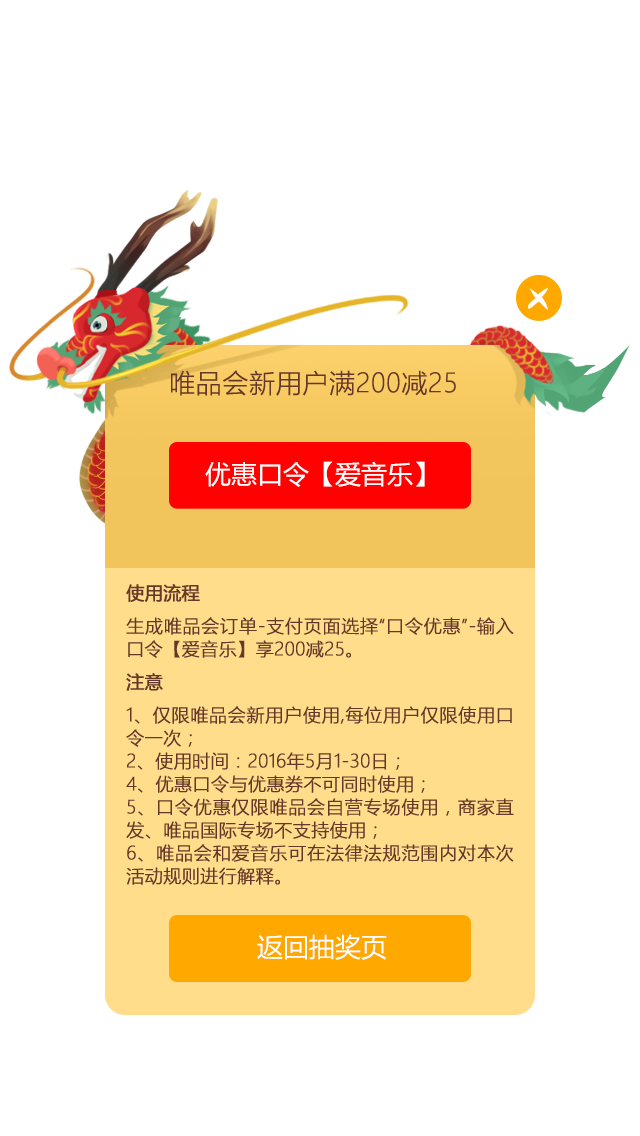
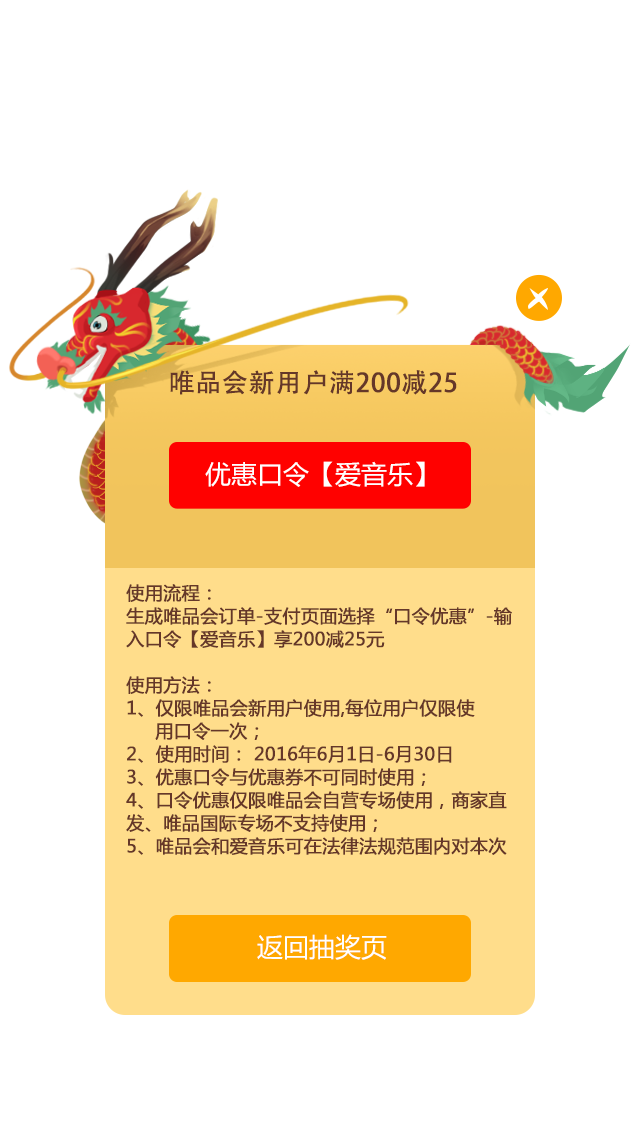
20160608修正

Changed region(s): [[0.1875, 0.5238, 0.8125, 0.8011], [0.2812, 0.3081, 0.6875, 0.3697]]

diff --git a/uber_s27e01/src/com/views/scene/initScene.ts b/uber_s27e01/src/com/views/scene/initScene.ts
@@ -17,10 +17,8 @@ module com.views.scene {
 
         constructor() {
             super();
-
             this.loading = new com.views.ui.loading.LoaderLoading("resource/resource.json?v=0","gameScene",this.onConfigComplete.bind(this));
             this.addChild(this.loading);
-
             com.utils.NetworkUtil.requestUser();
         }
 
@@ -76,7 +74,7 @@ module com.views.scene {
 
             //鼓
             this.drum = com.utils.AppUtils.loadArmature("drum/json","drum/texture","drum/png","Armature");
-            this.drum.display.x = this.display.width / 5*4;
+            this.drum.display.x = this.display.width / 5*4+50;
             this.drum.display.y = 100;
             this.drum.animation.gotoAndPlay("kai",-1,-1,0);
 
@@ -86,14 +84,13 @@ module com.views.scene {
             
 
             var alpha=0;
-            var yOff=20;
-            
+            var yOff= 300;          
             //排行榜
             this.rankingBtn=new egret.Shape();
             this.rankingBtn.width = 180;
             this.rankingBtn.height = 130;
-            this.rankingBtn.x = this.stage.width * 2 / 3 - 20;
-            this.rankingBtn.y = this.stage.height * 2 / 5+yOff;
+            this.rankingBtn.x = com.model.DataCenter.instance.configVO.appWidth * 2 / 3 - 20;
+            this.rankingBtn.y = com.model.DataCenter.instance.configVO.appHeight * 2 / 5+yOff;
             
             this.rankingBtn.graphics.beginFill(0x00FF00,alpha);
             this.rankingBtn.graphics.drawRect(0,0,this.rankingBtn.width,this.rankingBtn.height);
@@ -120,12 +117,13 @@ module com.views.scene {
             this.ruleBtn.touchEnabled = true;
             this.ruleBtn.addEventListener(egret.TouchEvent.TOUCH_TAP,this.showRuleList,this);
             
+            
             //开始游戏
             this.startBtn = new egret.Shape();
             this.startBtn.width = 280;
             this.startBtn.height = 150;
-            this.startBtn.x = this.stage.width * 1 / 3 -20;
-            this.startBtn.y = this.stage.height * 5 / 9 - 40 + yOff;
+            this.startBtn.x = com.model.DataCenter.instance.configVO.appWidth * 1 / 3 -20;
+            this.startBtn.y = com.model.DataCenter.instance.configVO.appHeight * 5 / 9 - 40 + yOff;
 
             this.startBtn.graphics.beginFill(0x00FF00,alpha);
             this.startBtn.graphics.drawRect(0,0,this.startBtn.width,this.startBtn.height);

diff --git a/uber_s27e01/src/com/views/dialog/AwardDialog.ts b/uber_s27e01/src/com/views/dialog/AwardDialog.ts
@@ -9,6 +9,7 @@ module com.views.dialog {
     	  
     	  text:egret.TextField;
     	  private riseAmt:dragonBones.Armature;
+    	  private againgame:egret.Bitmap;
     	  private rise;
     	
         constructor() {
@@ -35,13 +36,23 @@ module com.views.dialog {
             this.rise.x=320;
             this.rise.y=440;
             this.riseAmt.animation.gotoAndPlay("1dianjiqian",-1,-1,1);
+            
+            this.rise.touchEnabled = true;
+            this.rise.addEventListener(egret.TouchEvent.TOUCH_TAP,this.customTouchHandler,this);
+            this.addChild(this.rise);
+            
+            //再来一次按钮
+            this.againgame = new egret.Bitmap(RES.getRes("againgame"));
+            this.againgame.x = 0;
+            this.againgame.y = 0;
+            this.againgame.touchEnabled = true;
+            this.againgame.addEventListener(egret.TouchEvent.TOUCH_TAP,this.againgameTouchHandler,this);
+            this.addChild(this.againgame);
+            
 
             this.bg.touchEnabled = false;
 
-            this.rise.touchEnabled = true;
-            this.rise.addEventListener(egret.TouchEvent.TOUCH_TAP,this.customTouchHandler,this);
-            
-            this.addChild(this.rise);
+           
             
             dragonBones.WorldClock.clock.add(this.riseAmt);
             egret.Ticker.getInstance().register(this.dragonbones,this);
@@ -62,12 +73,15 @@ module com.views.dialog {
             if(AwardDialog.balance<=0){
                 com.utils.AppUtils.alert(this.stage,"对不起，您今天的抽奖机会用完了！");
                 return;
-            }
+                }  
 //            AwardDialog.balance--;
             
             this.riseAmt.addEventListener(dragonBones.AnimationEvent.COMPLETE,this.goToNextPage,this);
             
             this.riseAmt.animation.gotoAndPlay("2dianjihou",-1,-1,1);
+        }
+        protected againgameTouchHandler(evt: egret.TouchEvent) {
+            MainView.instance.changeScene(com.constants.SceneConstants.INIT);
         }
         
         private goToNextPage(): void {

diff --git a/uber_s27e01/src/com/views/dialog/DiamondsDailog.ts b/uber_s27e01/src/com/views/dialog/DiamondsDailog.ts
@@ -79,10 +79,10 @@ module com.views.dialog {
             //灰色验证码按钮
             this.oderbtn2 = new egret.Bitmap(RES.getRes("oderbtn2"));
             this.oderbtn2.x = 0;
-            this.oderbtn2.y = -20;
+            this.oderbtn2.y = -40;
             this.odertext = new egret.TextField();
             this.odertext.x = 345;
-            this.odertext.y = 615;
+            this.odertext.y = 595;
             this.odertext.size = 20;
             
             //勾选框
@@ -104,6 +104,8 @@ module com.views.dialog {
                 this.jump(new AwardDialog());
             }
             else if(new egret.Rectangle(168,733,300,65).contains(evt.stageX,evt.stageY)){
+                if(!com.utils.AppUtils.checkPhoneNo(this.phonenum.getInput())) 
+                    return;
                 this.jump(new Diamonds2Dailog(this.phonenum.getInput(),this.odernum.getInput()));              
             }
             else if(new egret.Rectangle(340,580,120,40).contains(evt.stageX,evt.stageY)){

diff --git a/uber_s27e01/src/com/MainView.ts b/uber_s27e01/src/com/MainView.ts
@@ -43,7 +43,7 @@ module com {
         private init(): void {
             var request = new egret.HttpRequest(),
                 self = this,
-                url: string = '/auth/anonymous/login?t=' + new Date().getTime() + '&gamesRedirectUri=' + encodeURIComponent(location.href.split('#')[0]);
+                url: string = '/auth/wechat/login?t=' + new Date().getTime() + '&gamesRedirectUri=' + encodeURIComponent(location.href.split('#')[0]);
             function done(event: egret.Event) {
                 var request = <egret.HttpRequest>event.currentTarget,
                     data: any = JSON.parse(request.response);

diff --git a/uber_s27e01/src/LoadingUI.ts b/uber_s27e01/src/LoadingUI.ts
@@ -40,13 +40,13 @@ class LoadingUI extends egret.Sprite {
         this.textField = new egret.TextField();
         this.addChild(this.textField);
         this.textField.y = 300;
-        this.textField.width = 480;
-        this.textField.height = 100;
+        this.textField.width = 380;
+        this.textField.height = 200;
         this.textField.textAlign = "center";
     }
 
     public setProgress(current, total):void {
         console.log(current);
-        this.textField.text = "Loading..." + current + "/" + total;
+        this.textField.text = "Loading..." + current + total;
     }
 }

diff --git a/uber_s27e01/src/com/views/scene/teachScene.ts b/uber_s27e01/src/com/views/scene/teachScene.ts
@@ -137,7 +137,7 @@ module com.views.scene {
             this.minititle.fontFamily = "Microsoft YaHei"
             this.minititle.textColor = 0xffffff;
             this.minititle.size = 30;
-            this.minititle.text = "轻触屏幕换线，龙舟必须避过所有的石块";
+            this.minititle.text = "点击屏幕换线，龙舟必须避过所有的石块";
             this.minititle.textHeight = 40
             this.minititle.x = 45;
             this.minititle.width = com.model.DataCenter.instance.configVO.appWidth*7/8

diff --git a/uber_s27e01/src/com/views/scene/luckScene.ts b/uber_s27e01/src/com/views/scene/luckScene.ts
@@ -25,7 +25,7 @@ module com.views.scene{
         public goToPage(pageId:number,record){
             this.removeChildren();
             this.addChild(this.backgroud);
-//          pageId = com.constants.DialogConstant.BELL;    //测试用
+//          pageId = com.constants.DialogConstant.DIAMOND;    //测试用
             switch(pageId) {
                 case com.constants.DialogConstant.WEI_PIN_HUI:
                     this.addChild(new com.views.dialog.WeipinhuiDialog());
